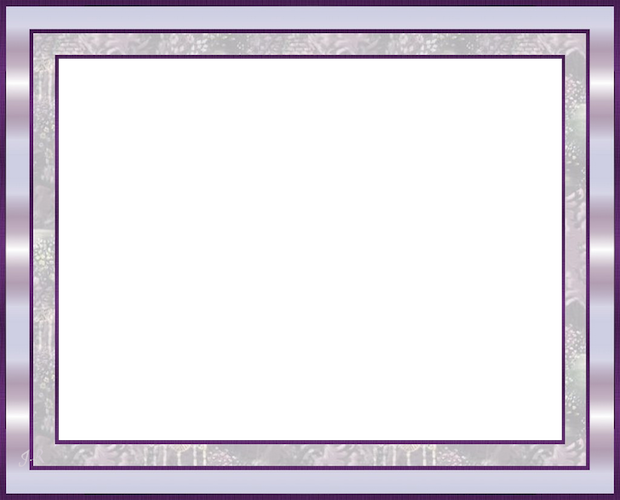
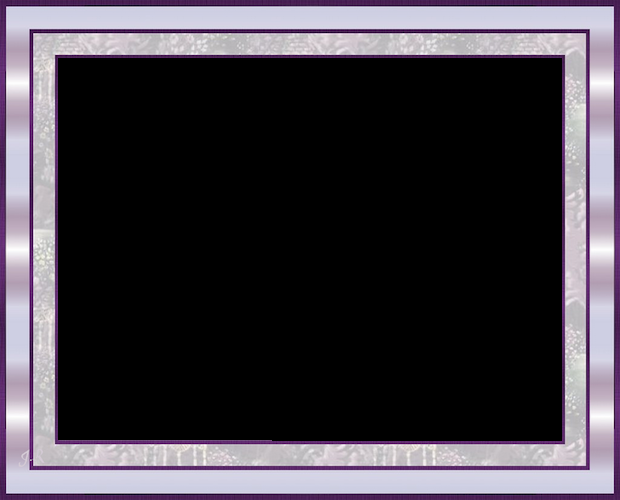
added possibility to merge frames with saved images

diff --git a/assets/javascripts/ajaxRequests.js b/assets/javascripts/ajaxRequests.js
@@ -1,33 +1,5 @@
-// function getImageUrl(frame){
-//   // Create our XMLHttpRequest object
-//   var hr = new XMLHttpRequest();
-//   // Create some variables we need to send to our PHP file
-//   var url = "imagesrc.php";
-//   // var imgurl = document.getElementById("photo").src;
-//   var canvasFinal = document.getElementById("canvas");
-//   // var imgurl = canvasFinal.toDataURL('image/png');
-//   var imgurl = canvasFinal.toDataURL();
-//   var vars = "imgurl="+imgurl+'&frame='+frame;
-//   hr.open("POST", url, true);
-//   // hr.setRequestHeader("Content-type", "application/x-www-form-urlencoded");
-//   hr.setRequestHeader("Content-type", "application/x-www-form-urlencoded");
-//   // Access the onreadystatechange event for the XMLHttpRequest object
-//   hr.onreadystatechange = function() {
-//       console.log(hr);
-
-//       if(hr.readyState == 4 && hr.status == 200) {
-//           var return_data = hr.responseText;
-//           document.getElementById("imgsrc").innerHTML = return_data;
-//       }
-//   }
-//   // Send the data to PHP now... and wait for response to update the status div
-//   hr.send(vars); // Actually execute the request
-//   document.getElementById("imgsrc").innerHTML = "processing...";
-//   window.scrollTo(0, 0);
-// }
-
 function getImageUrl(frame){
-    var base64 = document.getElementById("photo").src;
+    var base64 = document.getElementById("canvas").toDataURL();
     var vars = 'frame='+frame+"&imgurl="+base64;
     ajax = new XMLHttpRequest();
     ajax.open( 'POST', 'imagesrc.php', true );

diff --git a/imagesrc.php b/imagesrc.php
@@ -1,17 +1,50 @@
 <?php
 
-    $imgurl = $_POST['imgurl'];
-    $frame = $_POST['frame'];
+  //getting image url and frame name from ajax request
+  $imgurl = $_POST['imgurl'];
+  $frame = $_POST['frame'];
 
-    $imgurl = str_replace(" ", '+', $imgurl);
-    $filteredData=substr($imgurl, strpos($imgurl, ",")+1);
+  //correcting ajax syntax
+  $imgurl = str_replace(" ", '+', $imgurl);
+  //removing beginning of string
+  $filteredData=substr($imgurl, strpos($imgurl, ",")+1);
 
-    $unencodedData= base64_decode($filteredData);
+  $unencodedData= base64_decode($filteredData);
 
-    //echo "unencodedData".$unencodedData;
+  //saving as temporary picture
+  $fp = fopen( 'tmp/tmp.png', 'wb' );
+  fwrite( $fp, $unencodedData);
+  fclose( $fp );
 
-    $fp = fopen( 'tmp/last.png', 'wb' );
-    fwrite( $fp, $unencodedData);
-    fclose( $fp );
+  //using gd to merge image and frame
+  $src_im = imagecreatefrompng('frames/'.$frame.'.png');
+  $dst_im = imagecreatefrompng('tmp/tmp.png');
+
+  //dealing with transparency issue
+  $background = imagecolorallocate($src_im, 0, 0, 0);
+  imagecolortransparent($src_im, $background);
+  imagealphablending($src_im, false);
+  imagesavealpha($src_im, true);
+
+  $dst_x = 0;
+  $dst_y = 0;
+  $src_x = 0;
+  $src_y = 0;
+  $src_w = 620;
+  $src_h = 620;
+
+  $rep = imagecopymerge($dst_im, $src_im, $dst_x, $dst_y, $src_x, $src_y, $src_w, $src_h, 100);
+
+
+  //Output the correct header to the browser
+  header('Content-Type: image/png');
+
+  //Path to save the image too
+  $path = 'tmp/new.png';
+  //Save the image
+  imagepng($dst_im, $path);
+
+  imagedestroy($src_im);
+  imagedestroy($dst_im);
 
 ?>

diff --git a/camagru.php b/camagru.php
@@ -54,7 +54,10 @@
             </button>
             <button type="submit" name='frame-hipster' class="frame-button" onClick="getImageUrl('hipster')">
               <img src="frames/hipster.png" width="30" height="30" alt="submit">
-            </button>                        
+            </button>  
+            <button type="submit" name='red_dot' class="frame-button" onClick="getImageUrl('red_dot')">
+              <img src="frames/red_dot.png" width="30" height="30" alt="submit">
+            </button>                                    
 
         </div>
 
